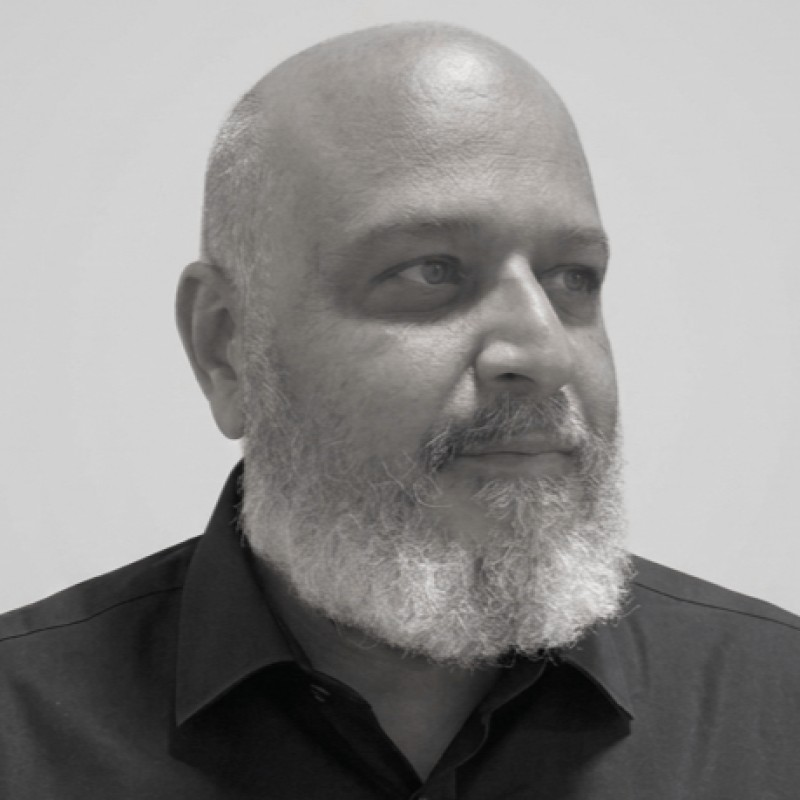
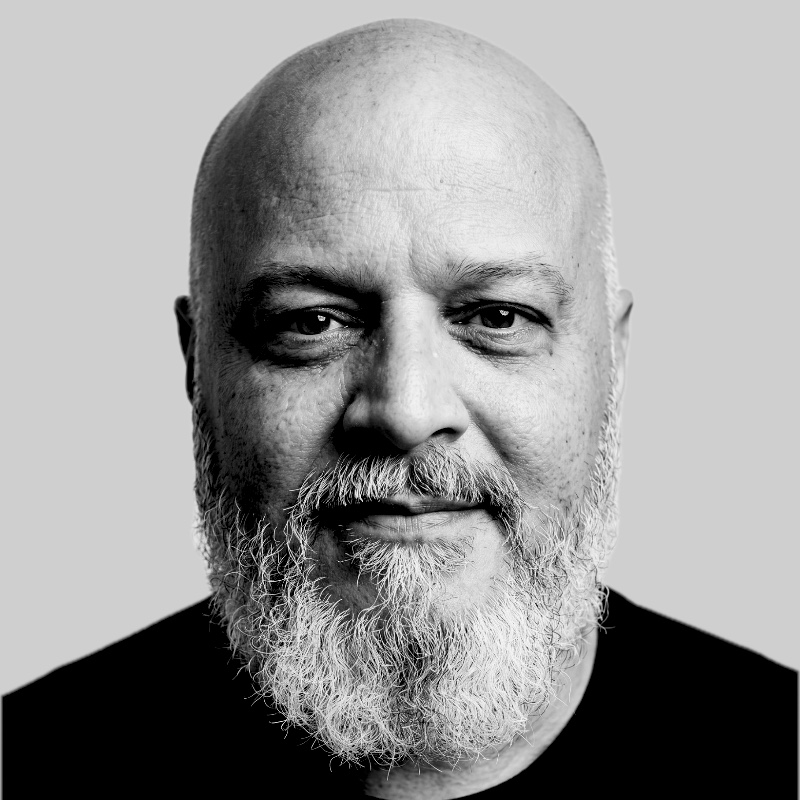
Team: new portrait for Elmo

diff --git a/team.html b/team.html
@@ -270,7 +270,7 @@
     <h1>Team</h1>
   </div>
   <div class="wrap team-grid">
-    <article class="member lead"><img class="portrait" src="/team/elmo.jpg" alt="Portrait of Elmo Gomes" width="800" height="800" loading="lazy"><div><p class="role">Founder</p><h2>Elmo Gomes</h2><ul><li>Former global executive at a leading pharmaceutical company for over 20 years</li><li>PhD in Economics, University of Hertfordshire, UK</li><li>Health Economics, Harvard University</li><li>Technology development for several startups, including Playback Aps, Clime GmbH, MedIAudit and Calendafy Plt</li><li><a href="mailto:elmo.gomes@pharmaccelerator.ai">elmo.gomes@pharmaccelerator.ai</a></li></ul></div></article><article class="member"><img class="portrait" src="/team/guilherme.jpg?v=2" alt="Portrait of Guilherme Bassi" width="800" height="800" loading="lazy"><p class="role">CTO</p><h2>Guilherme Bassi</h2><ul><li>Software developer and AI engineer</li><li>BSc in Technology, Estácio</li><li>Projects for Instituto de Informática (Segurança Social, CPCJ), Mobi.E, Rádio Popular, Comboios de Portugal (CP), AMA (gov.pt) and Câmara Municipal do Porto</li></ul></article><article class="member"><img class="portrait" src="/team/gabriela.jpg?v=2" alt="Portrait of Gabriela Esteves" width="800" height="800" loading="lazy"><p class="role">Generative AI Evaluator</p><h2>Gabriela Esteves</h2><ul><li>RLHF and LLM training</li><li>Multilingual AI specialist and model training QA</li><li>Trainer in Portuguese, English, French and Italian</li></ul></article><article class="member"><div class="portrait initials" role="img" aria-label="Juliana Mello">JM</div><p class="role">AI Data Curator Intern · Pharmaceutical Sciences</p><h2>Juliana Mello</h2><ul><li>Pharmaceutical Sciences BSc student</li></ul></article><article class="member"><img class="portrait" src="/team/miguel.jpg?v=2" alt="Portrait of Miguel Gomes" width="800" height="800" loading="lazy"><p class="role">AI Data Curator Intern · Economics and Finance</p><h2>Miguel Gomes</h2><ul><li>MSc student</li><li>BSc in Finance, ISEG, Universidade de Lisboa</li></ul></article>
+    <article class="member lead"><img class="portrait" src="/team/elmo.jpg?v=2" alt="Portrait of Elmo Gomes" width="800" height="800" loading="lazy"><div><p class="role">Founder</p><h2>Elmo Gomes</h2><ul><li>Former global executive at a leading pharmaceutical company for over 20 years</li><li>PhD in Economics, University of Hertfordshire, UK</li><li>Health Economics, Harvard University</li><li>Technology development for several startups, including Playback Aps, Clime GmbH, MedIAudit and Calendafy Plt</li><li><a href="mailto:elmo.gomes@pharmaccelerator.ai">elmo.gomes@pharmaccelerator.ai</a></li></ul></div></article><article class="member"><img class="portrait" src="/team/guilherme.jpg?v=2" alt="Portrait of Guilherme Bassi" width="800" height="800" loading="lazy"><p class="role">CTO</p><h2>Guilherme Bassi</h2><ul><li>Software developer and AI engineer</li><li>BSc in Technology, Estácio</li><li>Projects for Instituto de Informática (Segurança Social, CPCJ), Mobi.E, Rádio Popular, Comboios de Portugal (CP), AMA (gov.pt) and Câmara Municipal do Porto</li></ul></article><article class="member"><img class="portrait" src="/team/gabriela.jpg?v=2" alt="Portrait of Gabriela Esteves" width="800" height="800" loading="lazy"><p class="role">Generative AI Evaluator</p><h2>Gabriela Esteves</h2><ul><li>RLHF and LLM training</li><li>Multilingual AI specialist and model training QA</li><li>Trainer in Portuguese, English, French and Italian</li></ul></article><article class="member"><div class="portrait initials" role="img" aria-label="Juliana Mello">JM</div><p class="role">AI Data Curator Intern · Pharmaceutical Sciences</p><h2>Juliana Mello</h2><ul><li>Pharmaceutical Sciences BSc student</li></ul></article><article class="member"><img class="portrait" src="/team/miguel.jpg?v=2" alt="Portrait of Miguel Gomes" width="800" height="800" loading="lazy"><p class="role">AI Data Curator Intern · Economics and Finance</p><h2>Miguel Gomes</h2><ul><li>MSc student</li><li>BSc in Finance, ISEG, Universidade de Lisboa</li></ul></article>
   </div>
   <section class="remote">
     <div class="wrap">
